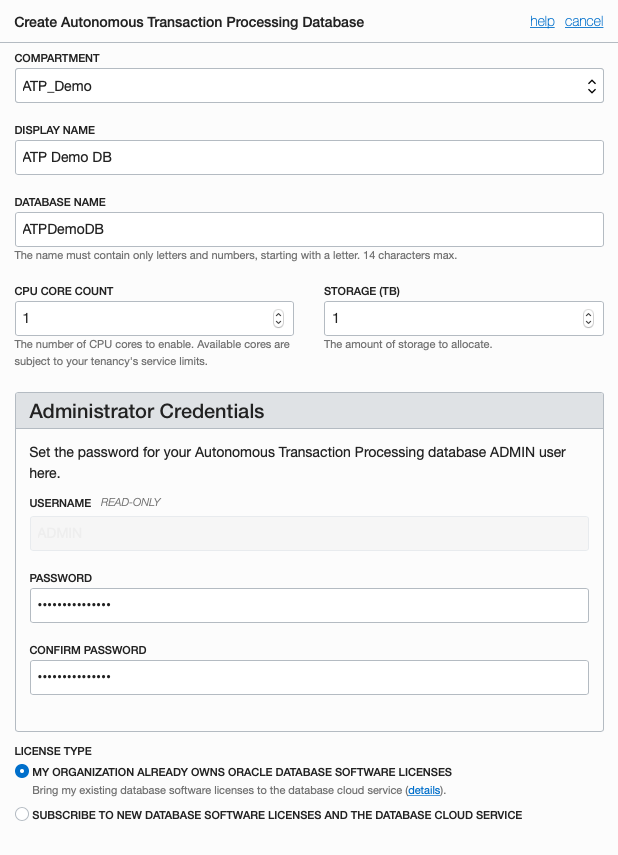
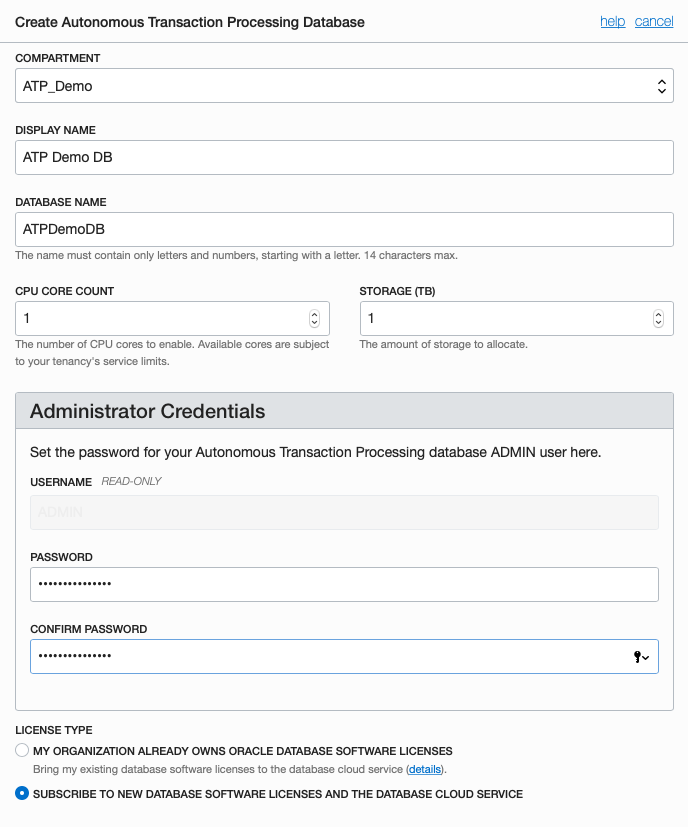
Updated secure connectitivity and data access to ATP section

diff --git a/100-PREPARElab.md b/100-PREPARElab.md
@@ -7,8 +7,8 @@
 During this part of the lab, you will take on the **DevOps Engineer Persona**. You will provision the required cloud services for Developer Cloud Service to build and deploy to a WebLogic Server cluster in Java Cloud Service and work with Oracle Cloud Platform tools. You must have access to a:
 
 - Oracle Public Cloud Service Account
-- Java Cloud Service (JCS)
 - Autonomous Transaction Processing (ATP)
+- Java Cloud Service (JCS)
 - Developer Cloud Service (DevcS)
 - Compute Cloud Service
 - Storage Cloud Service
@@ -22,22 +22,25 @@ Customer data can be stored in the same ATP instance. However, for this lab, the
 ## About This Exercise
 
 In this exercise, we will:
-- Create and configure an ATP instance to hold the JCS (WebLogic) configuration (Optional)
-- Create and configure a JCS (WebLogic) instance to host the JET UI frontend
-- Create and configure a Developer Cloud Service (DevCS) Build VM to build yo application
+- Learn how to create and configure an ATP instance to hold the JCS (WebLogic) configuration (Optional)
+- Learn how to configure secure connectivity and data access to ATP
+- Learn how to create and configure a JCS (WebLogic) instance to host the JET UI frontend
+- Learn how to create and configure a Developer Cloud Service (DevCS) Build VM to build your application
 
 
 
-## Provision an Autonomous Transaction Processing Database (ATP)
+## Provision an Autonomous Transaction Processing (ATP) Database
 
-**This step is Optional**
+### This section is optional
 
 **You will be advised by you instructor**
+
+**Go to "Step 4: Configure Secure Connectivity and Data Access to ATP", if ATP is already provisioned for you by your instructor**
 
 Due to the resource constrain, the instructor may have already created one for you. It also make sense that a single ATP instance should be shared by all lab participants, hence there is no need to create separate instances. The following steps are for your reference and you may dive into an existing instance to explore its configuration and administration tools.
 
 
-### **STEP 1**: Sign Into Your OCI Console
+### **STEP 1**: Sign Into Oracle Cloud Infrastructure Console
 
 - Please refer to the Cloud Account that has been provided by your administrator.
 
@@ -51,29 +54,29 @@ You can also access the OCI Console URL from your Cloud Dashboard.
 
 - Click on **Change tenant** button if you are not presented with the Cloud Tenant input form.
 
-![](images/100-1.png)
+  ![](images/100-1.png)
 
 - Enter your Cloud Tenant Name in the input field and click the Continue button. This will return you to the Cloud Dashboard.
 
-![](images/100-2.png)
+  ![](images/100-2.png)
 
 - Enter your OCI user name and password
 
-![](images/100-3.png)
+  ![](images/100-3.png)
 
 - Make sure you're in your region, otherwise select your region from the dropdown menu.
 
-![](images/100-4.png)
+  ![](images/100-4.png)
 
 
 
-### **STEP 2**: Create an ATP Instance
+### **STEP 2**: Create a Compartment
 
 Before creating an instance, we need to create a dedicated Compartment for the instance to be hosted in.
 
 - Click on the **Menu** button at the top left corner of your console and select **Identity -> Compartments**
 
-![](images/100-5.png)
+  ![](images/100-5.png)
 
 - Click on the **Create Compartment** button and enter the following parameters:
 
@@ -82,19 +85,29 @@ Before creating an instance, we need to create a dedicated Compartment for the i
   - **PARENT COMPARTMENT**: `(root)`
   - Leave the rest to default
 
-![](images/100-6.png)
+  ![](images/100-6.png)
 
 - Click **Create Compartment**
+
+
+### **STEP 3**: Create an ATP Instance
 
 - Click on the **Menu** button at the top left corner of your console and select **Autonomous Transaction Processing**
 
   ![](images/100-7.png)
 
-- Once in the ATP Console page, select the **CTD** compartment your just created from the dropdown menu. And click **Create Autonomous Transaction Processing Database**
+- Once in the ATP Console page, select the **ATP_Demo** compartment you just created from the dropdown compartment list.
+
+  ![](images/100-30.png)
+
+**NOTE**: Oracle Cloud Infrastructure allows logical isolation of users within a tenant through Compartments. This allows multiple users and business units to share a tenant account while being isolated from each other. If you have chosen the compartment you do not have privileges on, you will not be able to see or provision instance in it.
+
+
+- Click **Create Autonomous Transaction Processing Database**
 
   ![](images/100-8.png)
 
-- Click on **Create Autonomous Transaction Processing Database** and enter the following parameters:
+- This will bring up the **Create ATP Database** page where you specify the configurations of the instance. Click on **Create Autonomous Transaction Processing Database** and enter the following parameters:
 
   - **COMPARTMENT**: `ATP_Demo`
   - **DISPLAY NAME**: `ATP Demo DB`
@@ -102,19 +115,132 @@ Before creating an instance, we need to create a dedicated Compartment for the i
   - **CPU CORE COUNT**: `1`
   - **STORAGE(TB)**: `1`
   - **PASSWORD**: DB's administration password. Please take note of the password.
+  - **License Type**: `SUBSCRIBE TO NEW DATABASE SOFTWARE LICENSES AND THE DATABASE CLOUD SERVICE`
   - Leave the rest to default
 
   ![](images/100-9.png)
 
-- Click on **Create Autonomous Transaction Processing Database**
+- Click **Create Autonomous Transaction Processing Database** at the bottom of the page.
 
+  ![](images/100-31.png)
 **NOTE**:  Your ATP instance will take about 4 minutes to complete.
 Once finished, it will be in the **Available** state as shown below:
 
+
+- Once it finishes provisioning, you can click on the instance name to see details of it.
+
   ![](images/100-10.png)
 
+*Congratulation! You have provisioned your first ATP instance. You must wait for this to finish before proceeding to the next part of the lab. Alternately, your instructor may have already created an instance for you. Please consult your instructor for connection details.*
 
-*Congratulation!You have provisioned an ATP database. You must wait for this to finish before proceeding to the next part of the lab. Alternately, your instructor may have already created an instance for you. Please consult your instructor for connection details.*
+
+## Configure a Secure Connectivity and Data Access to ATP
+
+Autonomous Transaction Processing provides all of the performance of the Oracle Database in an environment that is tuned and optimised for transaction processing workloads. ATP requires very little manual ongoing administration.
+
+In this lab we will configure a secure connection using Oracle SQL Developer. You will connect to an existing ATP instance provided by your instructor or one created in the previous section.
+
+- Please ensure you have installed Oracle SQL Developer 18.4. If you do not have SQL Developer 18.4, you can download from [here](https://www.oracle.com/technetwork/developer-tools/sql-developer/downloads/index.html).
+
+**NOTE**: You can skip STEP 4 and go to STEP 5 if you have already logged into OCI Console.
+
+
+### **STEP 4**: Sign Into Oracle Cloud Infrastructure Console
+
+- Please refer to the Cloud Account that has been provided by your administrator.
+
+- Open your browser (Safari, Firefox or Chrome) and go to your Oracle Cloud Infrastructure Console URL. The OCI Console URL is:
+
+  https://console.us-ashburn-1.oraclecloud.com/#/a/
+
+This URL may be different to the one you are provided with. Use the provided URL if it is different to the above.
+
+You can also access the OCI Console URL from your Cloud Dashboard.
+
+- Click on **Change tenant** button if you are not presented with the Cloud Tenant input form.
+
+  ![](images/100-1.png)
+
+- Enter your Cloud Tenant Name in the input field and click the Continue button. This will return you to the Cloud Dashboard.
+
+  ![](images/100-2.png)
+
+- Enter your OCI user name and password
+
+  ![](images/100-3.png)
+
+- Make sure you're in your region, otherwise select your region from the dropdown menu.
+
+  ![](images/100-4.png)
+
+- Click on the **Menu** button at the top left corner of your console and select **Autonomous Transaction Processing**
+
+  ![](images/100-7.png)
+
+- Once in the ATP Console page, select the **ATP_Demo** compartment you just created from the dropdown compartment list.
+
+  ![](images/100-30.png)
+
+**NOTE**: Oracle Cloud Infrastructure allows logical isolation of users within a tenant through Compartments. This allows multiple users and business units to share a tenant account while being isolated from each other. If you have chosen the compartment you do not have privileges on, you will not be able to see or provision instance in it.
+
+
+- Click **ATP_Demo_DB** database instance to see details of it.
+
+  ![](images/100-10.png)
+
+### **STEP 5**: Download the secure connection wallet for your provisioned instance
+
+- Inside the Autonomous Transaction Processing Details page is where we can download the database connection credentials call a Wallet.
+
+  ![](images/100-32.png)
+
+- Click on **DB Connection** to open up Database Connection pop-up window.
+
+  ![](images/100-33.png)
+
+- Click on **Download** to supply a password for the wallet and download your client credentials.
+
+  ![](images/100-34.png)
+
+- Enter `WElcome_123#` as password for your wallet.
+
+- Click **Download**
+
+- Once you have downloaded your wallet, you will be navigated to ATP overview page.
+
+- The credentials zip file contains the encryption wallet, Java keystore and other relevant files to make a secure TLS 1.2 connection to your database from client applications. Store this file in a secure location.
+
+
+### **STEP 6**: Connect to ATP instance using Oracle SQL Developer
+
+- Launch SQL Developer from the desktop and click Add Connection on top left.
+
+  ![](images/100-35.png)
+
+- Enter the following in New database connection:
+
+  - **Connection Name**: Name for your connection
+  - **Username**: `admin`
+  - **Password**: `WElcome_123#``
+  - **Connection Type**: `Cloud Wallet`
+  - **Role**: `Default`
+  - **Configuration File**: Click on Browse and select the wallet file you downloaded
+  - **Service**: `databasename_high` Database name followed by suffix low, medium or high. These suffixes determine degree of parallelism used and are relevant for a DSS workload. For OLTP workloads it's safe to select any of them. Example: atpdemodb_high
+
+  ![](images/100-36.png)
+
+- Click **Test** to test your connection and then **Save**. The Status bar will show Success if it is a successful connection.
+
+  ![](images/100-37.png)
+
+- Click **Connect**. You now have a secure connection to your cloud database.
+
+- You now have connected your Autonomous Transaction Processing Cloud instance to Oracle SQL Developer.
+
+  ![](images/100-38.png)
+
+
+*Congratualtion! You are now able to connect to an ATP instance.*
 
 
 
@@ -122,7 +248,7 @@ Once finished, it will be in the **Available** state as shown below:
 
 For this part of the lab, you would need an ATP instance to complete the JCS configuration.
 
-- Please verify the provisioning of a DBCS instance in **Step 2** has completed and is up and running.
+- Please verify the provisioning of a ATP instance in **Step 3** has completed and is up and running.
 
 - If this is running, then proceed to the following steps, otherwise, please wait until it is ready.
 
@@ -130,7 +256,7 @@ For this part of the lab, you would need an ATP instance to complete the JCS con
 
 
 
-### **STEP 3**: Create a JCS Instance
+### **STEP 7**: Create a JCS Instance
 
 - On the dashboard click the hamburger icon on the **Java** tile. Select **Open Service Console**.
 
@@ -140,7 +266,7 @@ For this part of the lab, you would need an ATP instance to complete the JCS con
 - Once in the Java Cloud Service Console page, create a new instance by clicking **Create Service** button.
 
 
-#### **STEP 3.1**: Basic Instance Configuration
+#### **STEP 5.1**: Basic Instance Configuration
 
 - Complete the new Create New Instance Page as illustrated below:
 
@@ -161,7 +287,7 @@ For this part of the lab, you would need an ATP instance to complete the JCS con
 - Click **Next**
 
 
-#### **STEP 3.2**: Detailed Instance Configuration
+#### **STEP 5.2**: Detailed Instance Configuration
 
 - On the Service Details page, click **Advanced** to show additional configuration options
 
@@ -225,7 +351,7 @@ Since the Build VM is a Compute instance, this can be shared among developers. T
 
 
 
-### **STEP 4**: Create a   Developer Cloud Instance
+### **STEP 6**: Create a   Developer Cloud Instance
 
 - Go back to your Dashboard page.
 
@@ -259,7 +385,7 @@ Since the Build VM is a Compute instance, this can be shared among developers. T
 
 
 
-#### **STEP 4.1**: Setup The OCI Connection
+#### **STEP 6.1**: Setup The OCI Connection
 
 You need to connect to the Oracle Cloud Infrastructure Compute (OCI Compute) because they provide the virtual machines (VMs) on which DevCS runs its builds. You need to connect to Oracle Cloud Infrastructure Object Storage (OCI Object Storage) because they are used to store build and Maven artifacts for DevCS projects. It is assumed you are an OCI user and have the access rights to set up connections to OCI Compute and OCI Object Storage.
 
@@ -291,7 +417,7 @@ You need to connect to the Oracle Cloud Infrastructure Compute (OCI Compute) bec
 
 
 
-#### **STEP 4.2**: Create a VM Template
+#### **STEP 6.2**: Create a VM Template
 
 A Build Virtual Machine (VM) is an OCI Compute VM that runs builds of jobs defined in the DevCS projects. A Build VM Template defines the operating system and the software installed on Build VMs.
 
@@ -323,7 +449,7 @@ In this section, you learn how to create a basic Build VM template that includes
 
 
 
-#### **STEP 4.3**: Configure the Software of a Build VM Template
+#### **STEP 6.3**: Configure the Software of a Build VM Template
 
 The VM template contains the minimum software required to run basic builds. We need to add additional software to the template in order to build our JET UI frontend. The additional components are Grandle and Node.js.
 
@@ -346,7 +472,7 @@ The VM template contains the minimum software required to run basic builds. We n
 
 
 
-#### **STEP 4.4**: Create a Virtual Machine for Build and Develop
+#### **STEP 6.4**: Create a Virtual Machine for Build and Develop
 
 **This step is Optional**
 
